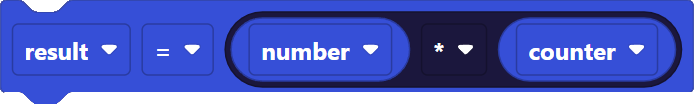
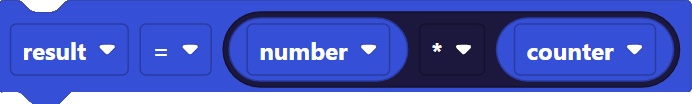
Added counter while blocks

diff --git a/edublocks_flutter/lib/Page Sections/canvas.dart b/edublocks_flutter/lib/Page Sections/canvas.dart
@@ -17,7 +17,9 @@ Future<void> loadJsonFromAssets() async {
   String jsonString = await rootBundle.loadString('app_assets/data.json');
   Map<String, dynamic> jsonMap = jsonDecode(jsonString);
 
-  if (!isProduction) {print(jsonMap);}
+  if (!isProduction) {
+    print(jsonMap);
+  }
 }
 
 class canvasWidget extends StatefulWidget {
@@ -994,6 +996,30 @@ class _canvasWidgetState extends State<canvasWidget> {
                 "${blockFolder}logic/elifClass/if-ash-class_1Blocks.png";
             parent.height = 200.0 + (70 * (parentNestedBlocks - 1));
         }
+
+      case "while counter <= 12:":
+        switch (parentNestedBlocks) {
+          case 0:
+            parent.imageName =
+                "${blockFolder}loops/while-loop-counterSmall.png";
+            parent.height = 150.0;
+            break;
+          case 1:
+            parent.imageName =
+                "${blockFolder}loops/while-loop-counter_1Block.png";
+            parent.height = 200.0;
+            break;
+          case 2:
+            parent.imageName =
+                "${blockFolder}loops/while-loop-counter_2Blocks.png";
+            parent.height = 200.0 + (70 * (parentNestedBlocks - 1));
+            break;
+          default:
+            parent.imageName =
+                "${blockFolder}loops/while-loop-counter_2Blocks.png";
+            parent.height = 200.0 + (70 * (parentNestedBlocks - 1));
+        }
+        break;
     }
 
     buildBlock(parent);
@@ -1028,7 +1054,8 @@ class _canvasWidgetState extends State<canvasWidget> {
           snappedTo.type.code == 'elif (my_class == \"Holly Class\"):' ||
           snappedTo.type.code == 'elif (my_class == \"Oak Class\"):' ||
           snappedTo.type.code == 'elif (my_class == \"Silver Birch Class\"):' ||
-          snappedTo.type.code == 'if (my_class == \"Ash Class\"):' &&
+          snappedTo.type.code == 'if (my_class == \"Ash Class\"):' ||
+          snappedTo.type.code == 'while counter <= 12:' &&
               snappedTo.id != block.id) {
         return snappedTo;
       }
@@ -1056,7 +1083,8 @@ class _canvasWidgetState extends State<canvasWidget> {
           currentBlock.type.code == "elif (my_class == \"Oak Class\"):" ||
           currentBlock.type.code ==
               "elif (my_class == \"Silver Birch Class\"):" ||
-          currentBlock.type.code == "if (my_class == \"Ash Class\"):") {
+          currentBlock.type.code == "if (my_class == \"Ash Class\"):" ||
+          currentBlock.type.code == "while counter <= 12:") {
         if (currentBlock.nestedBlocks!.isNotEmpty) {
           blockUnits += getNumberOfNestedBlocks(currentBlock);
           blockUnits = blockUnits + 2;
@@ -1104,7 +1132,11 @@ class _canvasWidgetState extends State<canvasWidget> {
         onPanUpdate: (details) => onUpdateDrag(block.id, details),
         onPanEnd: (_) => onEndDrag(block.id),
         onTap: () {
-          if (!isProduction) {print("Line number: ${getBlockLineNumber(block.id, _codeTracker.blocks.firstWhere((b) => b.id == 0))}");}
+          if (!isProduction) {
+            print(
+              "Line number: ${getBlockLineNumber(block.id, _codeTracker.blocks.firstWhere((b) => b.id == 0))}",
+            );
+          }
 
           if (block.id != 0) {
             setState(() {
@@ -1114,7 +1146,9 @@ class _canvasWidgetState extends State<canvasWidget> {
                 _codeTracker.selectedBlock = block;
               }
             });
-            if (!isProduction) {print("Block selected: ${block.type.code}");}
+            if (!isProduction) {
+              print("Block selected: ${block.type.code}");
+            }
           }
         },
         child: SizedBox(

diff --git a/edublocks_flutter/lib/Services/TextFormatter.dart b/edublocks_flutter/lib/Services/TextFormatter.dart
@@ -69,7 +69,7 @@ class TextFormatter {
     final variableColour = altColours(context) ? Color(0xFF364fd7) : keywordColour;
 
     final keywords = ["time", "random", "math", "sleep"];
-    final variables = ["count", "age", "friends", "number1", "number2"];
+    final variables = ["count", "age", "friends", "number1", "number2", "Classes", "teacher-name", "year-group", "result", "researcher-name", "number", "counter"];
 
     final String keywordPattern = keywords.map(RegExp.escape).join('|');
     final String variablePattern = variables.map(RegExp.escape).join('|');
